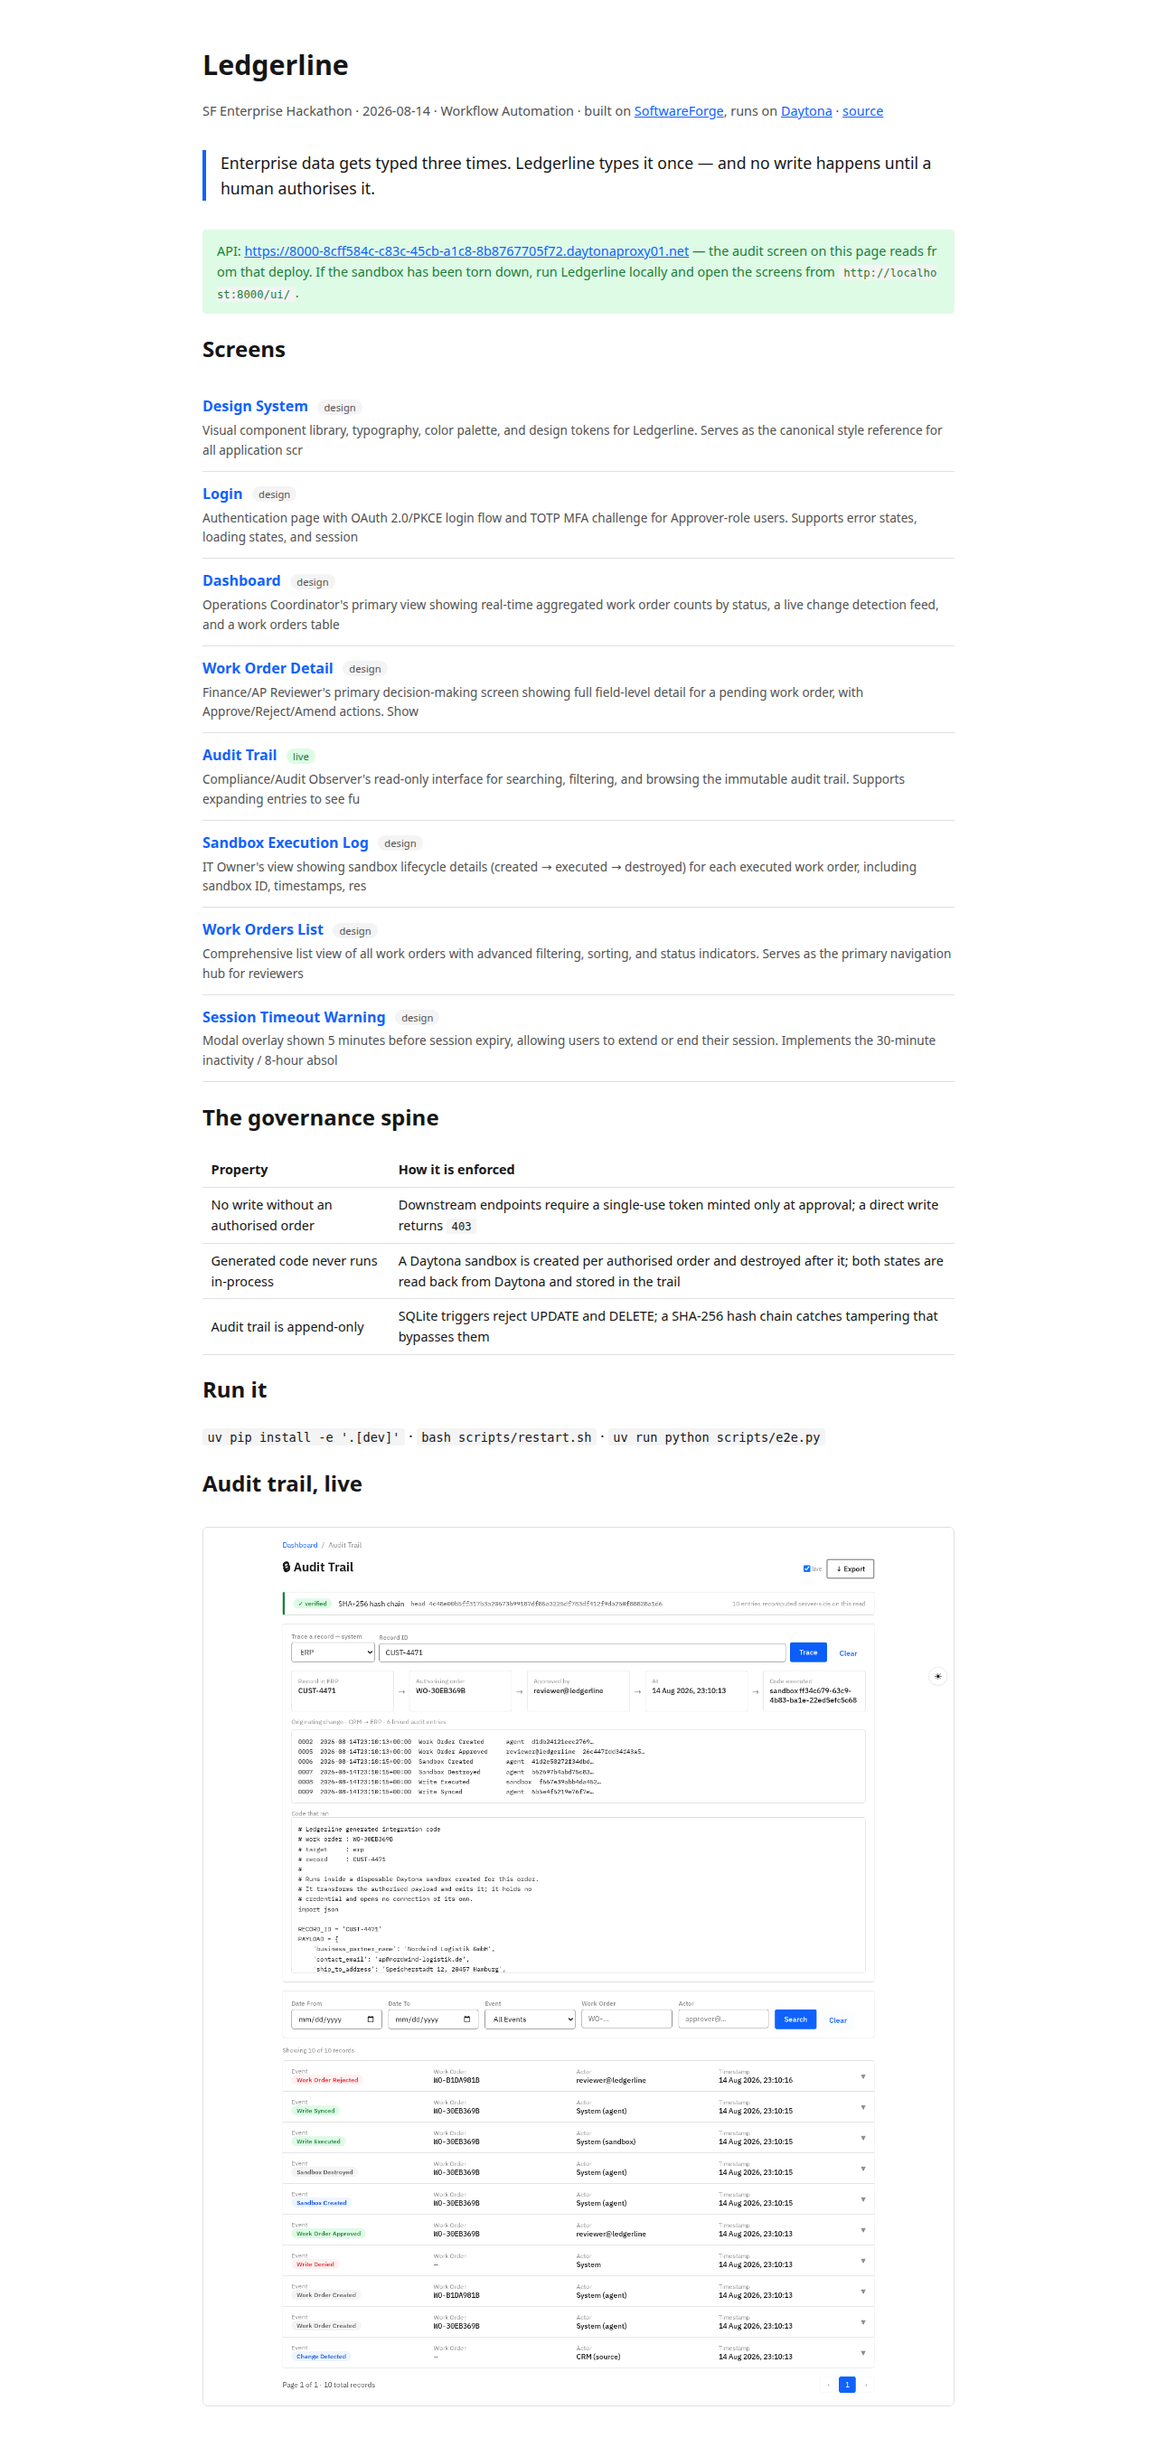
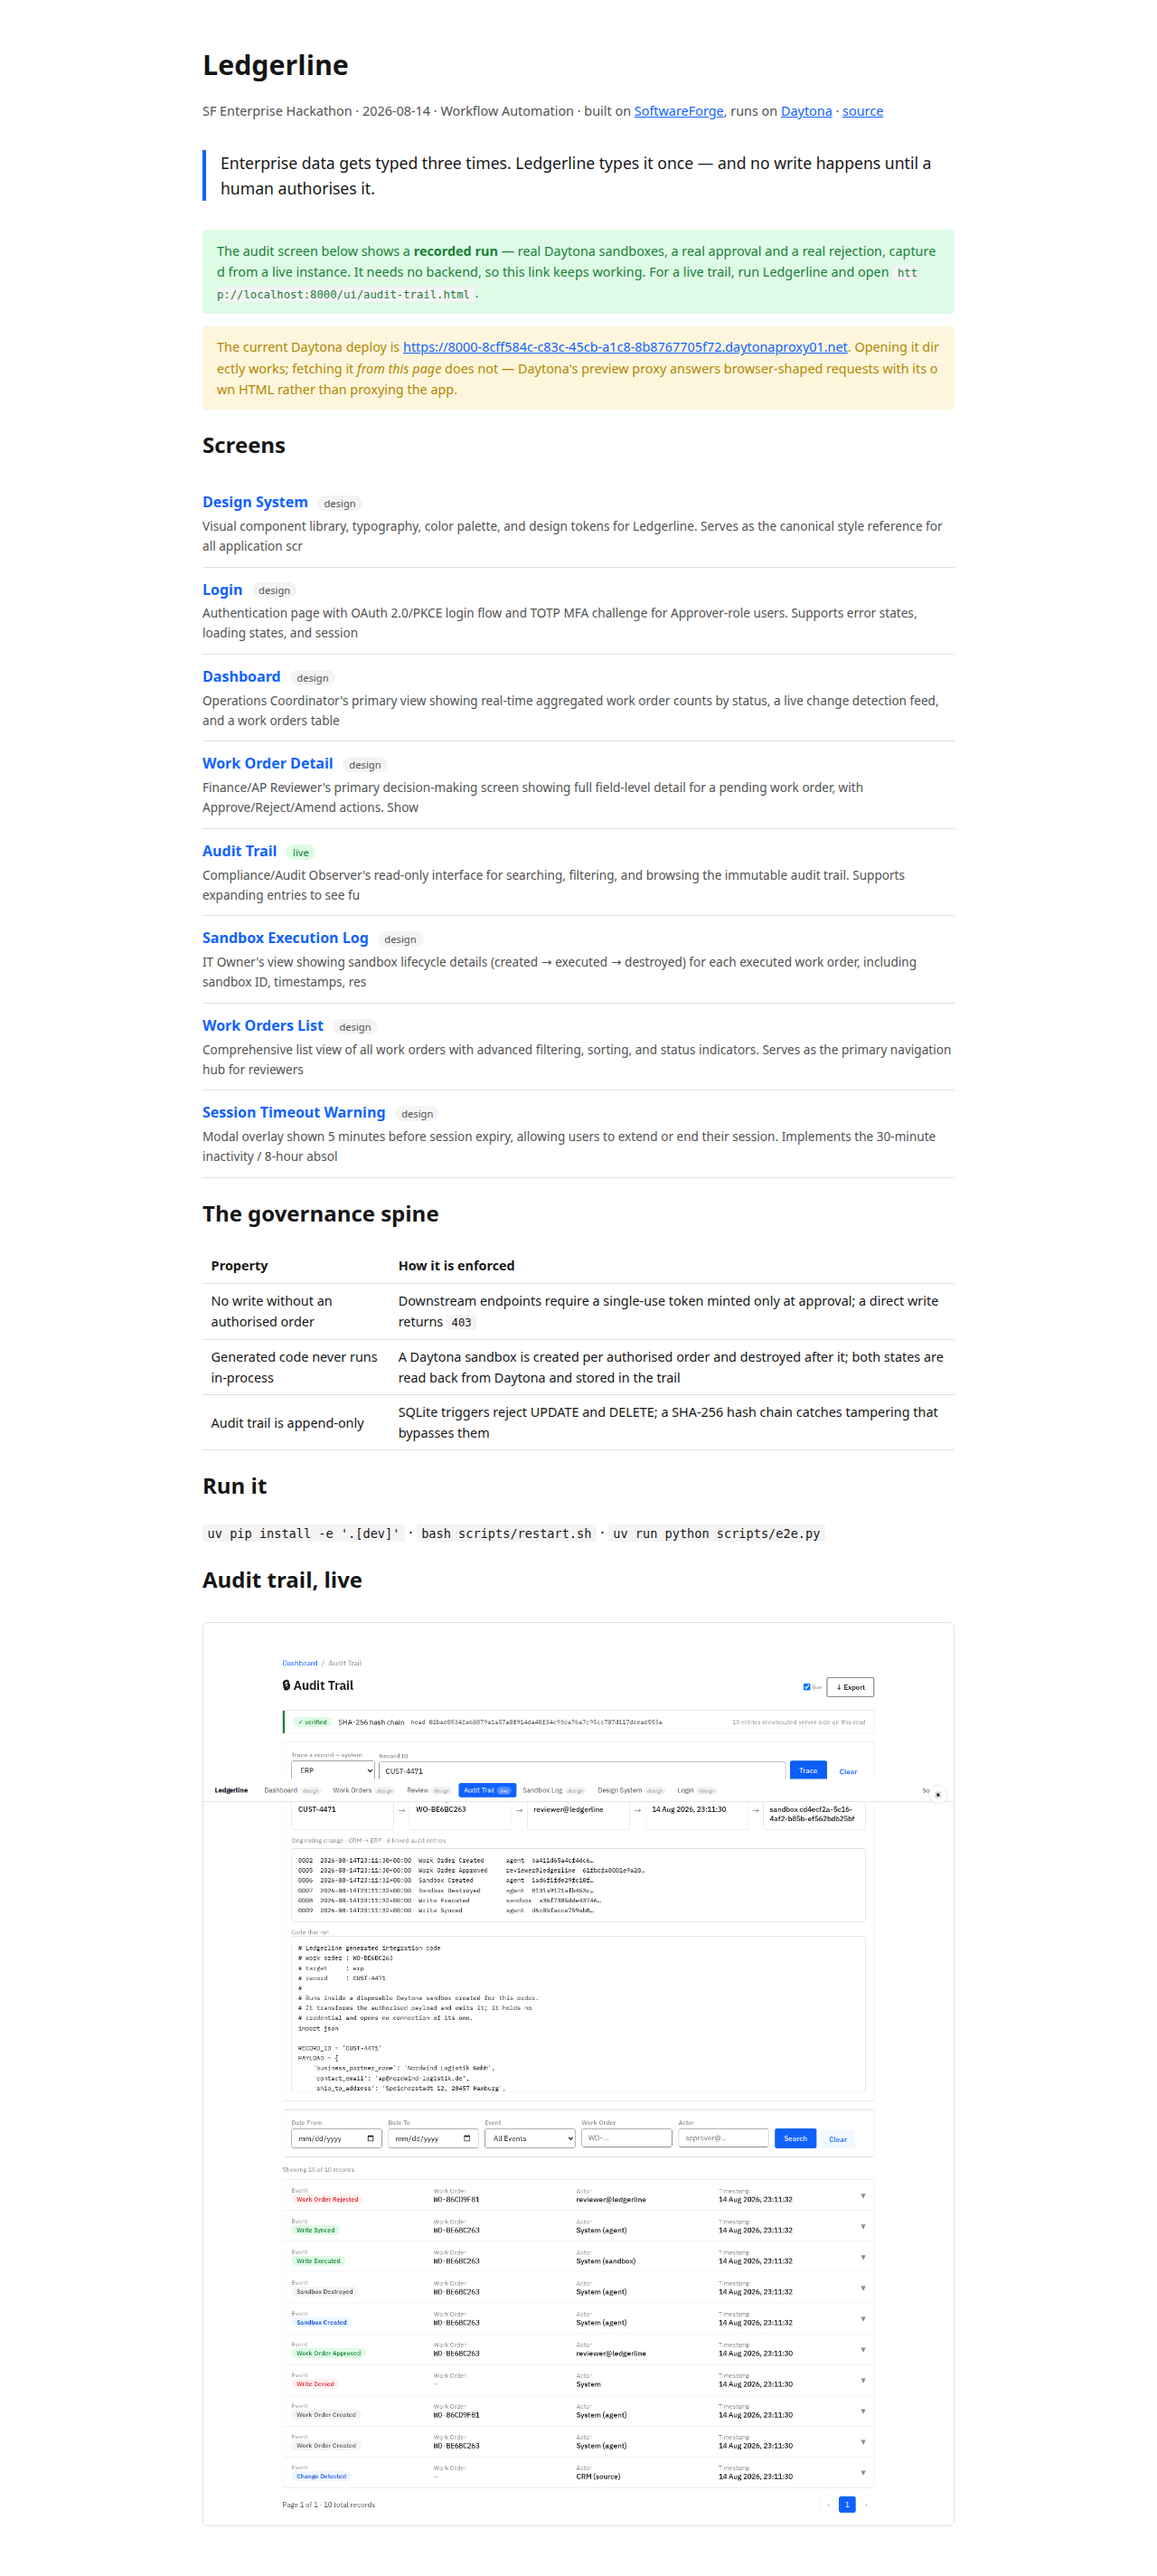
fix(ui): stop the theme toggle covering the nav's Source link (#5)
The toggle is position:fixed at top-right and sat on top of the nav strip's
right-hand link. Reserve the space instead of moving the toggle, which the
Forge design system places deliberately.

Refreshes the hosted screenshots against the live Pages site now that the
dashboard is the entry point and the screens are linked.

diff --git a/ui/audit-trail.html b/ui/audit-trail.html
@@ -103,7 +103,7 @@ body{font-family:var(--font-family);font-size:var(--font-size-base);color:var(--
 <body><!-- ledgerline:nav -->
 <style>
 .ll-nav{position:sticky;top:0;z-index:9998;display:flex;align-items:center;gap:2px;
-flex-wrap:wrap;padding:8px 12px;background:var(--color-surface-raised,#fff);
+flex-wrap:wrap;padding:8px 12px;padding-right:60px;background:var(--color-surface-raised,#fff);
 border-bottom:1px solid var(--color-border,#e0e0e0);
 font-family:var(--font-family,system-ui);font-size:13px}
 .ll-nav .ll-brand{font-weight:700;margin-right:10px;color:var(--color-text-primary,#161616);

diff --git a/ui/login.html b/ui/login.html
@@ -53,7 +53,7 @@ body{font-family:var(--font-family);font-size:var(--font-size-base);color:var(--
 <body><!-- ledgerline:nav -->
 <style>
 .ll-nav{position:sticky;top:0;z-index:9998;display:flex;align-items:center;gap:2px;
-flex-wrap:wrap;padding:8px 12px;background:var(--color-surface-raised,#fff);
+flex-wrap:wrap;padding:8px 12px;padding-right:60px;background:var(--color-surface-raised,#fff);
 border-bottom:1px solid var(--color-border,#e0e0e0);
 font-family:var(--font-family,system-ui);font-size:13px}
 .ll-nav .ll-brand{font-weight:700;margin-right:10px;color:var(--color-text-primary,#161616);

diff --git a/ui/sandbox-execution-log.html b/ui/sandbox-execution-log.html
@@ -64,7 +64,7 @@ td{padding:var(--spacing-2) var(--spacing-3);border-bottom:1px solid var(--color
 <body><!-- ledgerline:nav -->
 <style>
 .ll-nav{position:sticky;top:0;z-index:9998;display:flex;align-items:center;gap:2px;
-flex-wrap:wrap;padding:8px 12px;background:var(--color-surface-raised,#fff);
+flex-wrap:wrap;padding:8px 12px;padding-right:60px;background:var(--color-surface-raised,#fff);
 border-bottom:1px solid var(--color-border,#e0e0e0);
 font-family:var(--font-family,system-ui);font-size:13px}
 .ll-nav .ll-brand{font-weight:700;margin-right:10px;color:var(--color-text-primary,#161616);

diff --git a/ui/work-order-detail.html b/ui/work-order-detail.html
@@ -99,7 +99,7 @@ body{font-family:var(--font-family);font-size:var(--font-size-base);color:var(--
 <body><!-- ledgerline:nav -->
 <style>
 .ll-nav{position:sticky;top:0;z-index:9998;display:flex;align-items:center;gap:2px;
-flex-wrap:wrap;padding:8px 12px;background:var(--color-surface-raised,#fff);
+flex-wrap:wrap;padding:8px 12px;padding-right:60px;background:var(--color-surface-raised,#fff);
 border-bottom:1px solid var(--color-border,#e0e0e0);
 font-family:var(--font-family,system-ui);font-size:13px}
 .ll-nav .ll-brand{font-weight:700;margin-right:10px;color:var(--color-text-primary,#161616);

diff --git a/ui/design-system.html b/ui/design-system.html
@@ -287,7 +287,7 @@ tbody tr:hover{background:var(--color-surface-hover);}
 <body><!-- ledgerline:nav -->
 <style>
 .ll-nav{position:sticky;top:0;z-index:9998;display:flex;align-items:center;gap:2px;
-flex-wrap:wrap;padding:8px 12px;background:var(--color-surface-raised,#fff);
+flex-wrap:wrap;padding:8px 12px;padding-right:60px;background:var(--color-surface-raised,#fff);
 border-bottom:1px solid var(--color-border,#e0e0e0);
 font-family:var(--font-family,system-ui);font-size:13px}
 .ll-nav .ll-brand{font-weight:700;margin-right:10px;color:var(--color-text-primary,#161616);

diff --git a/ui/dashboard.html b/ui/dashboard.html
@@ -93,7 +93,7 @@ tbody tr:hover{background:var(--color-surface-hover);}
 <body><!-- ledgerline:nav -->
 <style>
 .ll-nav{position:sticky;top:0;z-index:9998;display:flex;align-items:center;gap:2px;
-flex-wrap:wrap;padding:8px 12px;background:var(--color-surface-raised,#fff);
+flex-wrap:wrap;padding:8px 12px;padding-right:60px;background:var(--color-surface-raised,#fff);
 border-bottom:1px solid var(--color-border,#e0e0e0);
 font-family:var(--font-family,system-ui);font-size:13px}
 .ll-nav .ll-brand{font-weight:700;margin-right:10px;color:var(--color-text-primary,#161616);

diff --git a/ui/work-orders-list.html b/ui/work-orders-list.html
@@ -63,7 +63,7 @@ tbody tr:hover{background:var(--color-surface-hover);}
 <body><!-- ledgerline:nav -->
 <style>
 .ll-nav{position:sticky;top:0;z-index:9998;display:flex;align-items:center;gap:2px;
-flex-wrap:wrap;padding:8px 12px;background:var(--color-surface-raised,#fff);
+flex-wrap:wrap;padding:8px 12px;padding-right:60px;background:var(--color-surface-raised,#fff);
 border-bottom:1px solid var(--color-border,#e0e0e0);
 font-family:var(--font-family,system-ui);font-size:13px}
 .ll-nav .ll-brand{font-weight:700;margin-right:10px;color:var(--color-text-primary,#161616);

diff --git a/scripts/wire_ui.py b/scripts/wire_ui.py
@@ -42,7 +42,7 @@ BREADCRUMBS = {
 CSS = """
 <style>
 .ll-nav{position:sticky;top:0;z-index:9998;display:flex;align-items:center;gap:2px;
-flex-wrap:wrap;padding:8px 12px;background:var(--color-surface-raised,#fff);
+flex-wrap:wrap;padding:8px 12px;padding-right:60px;background:var(--color-surface-raised,#fff);
 border-bottom:1px solid var(--color-border,#e0e0e0);
 font-family:var(--font-family,system-ui);font-size:13px}
 .ll-nav .ll-brand{font-weight:700;margin-right:10px;color:var(--color-text-primary,#161616);
